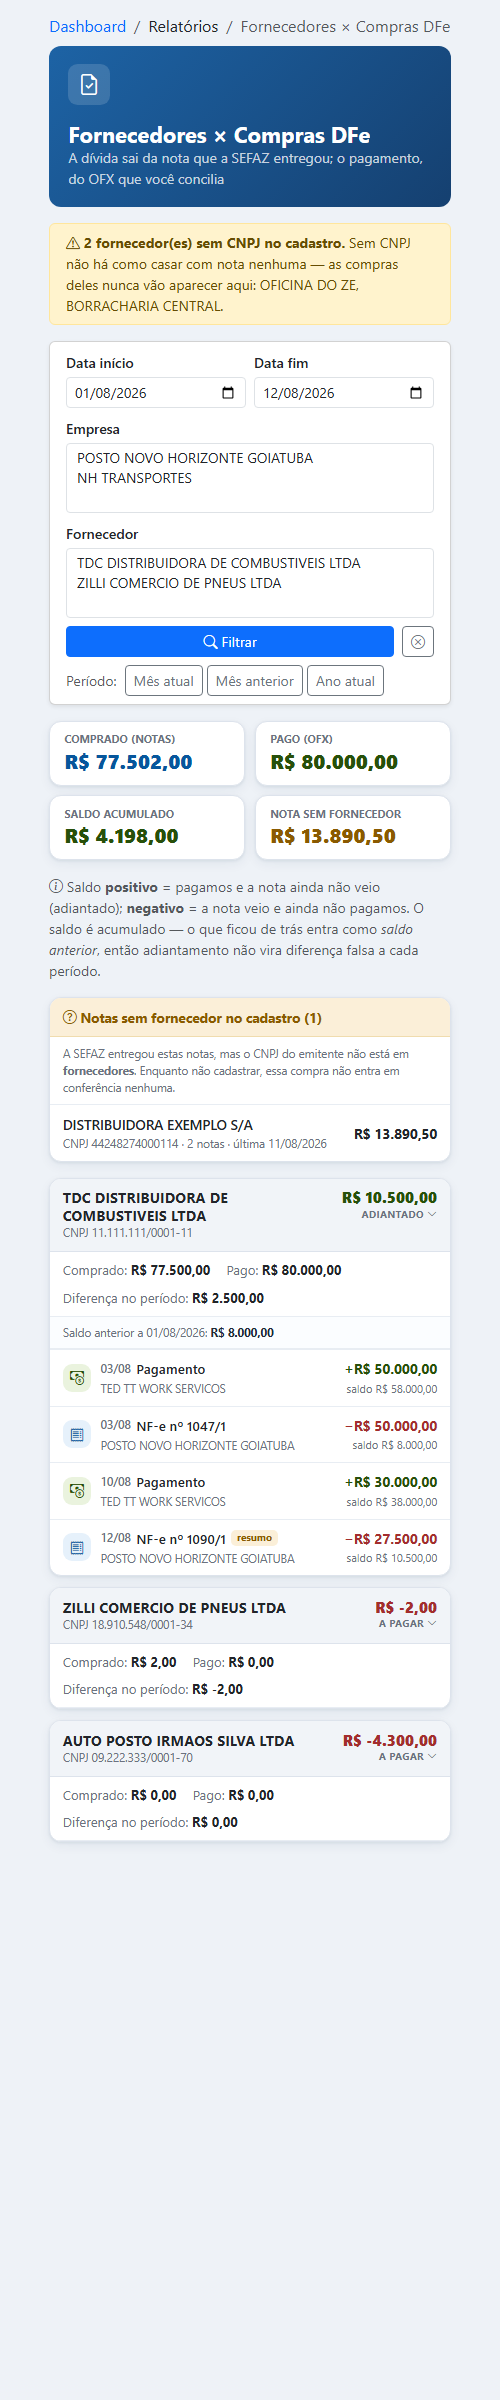
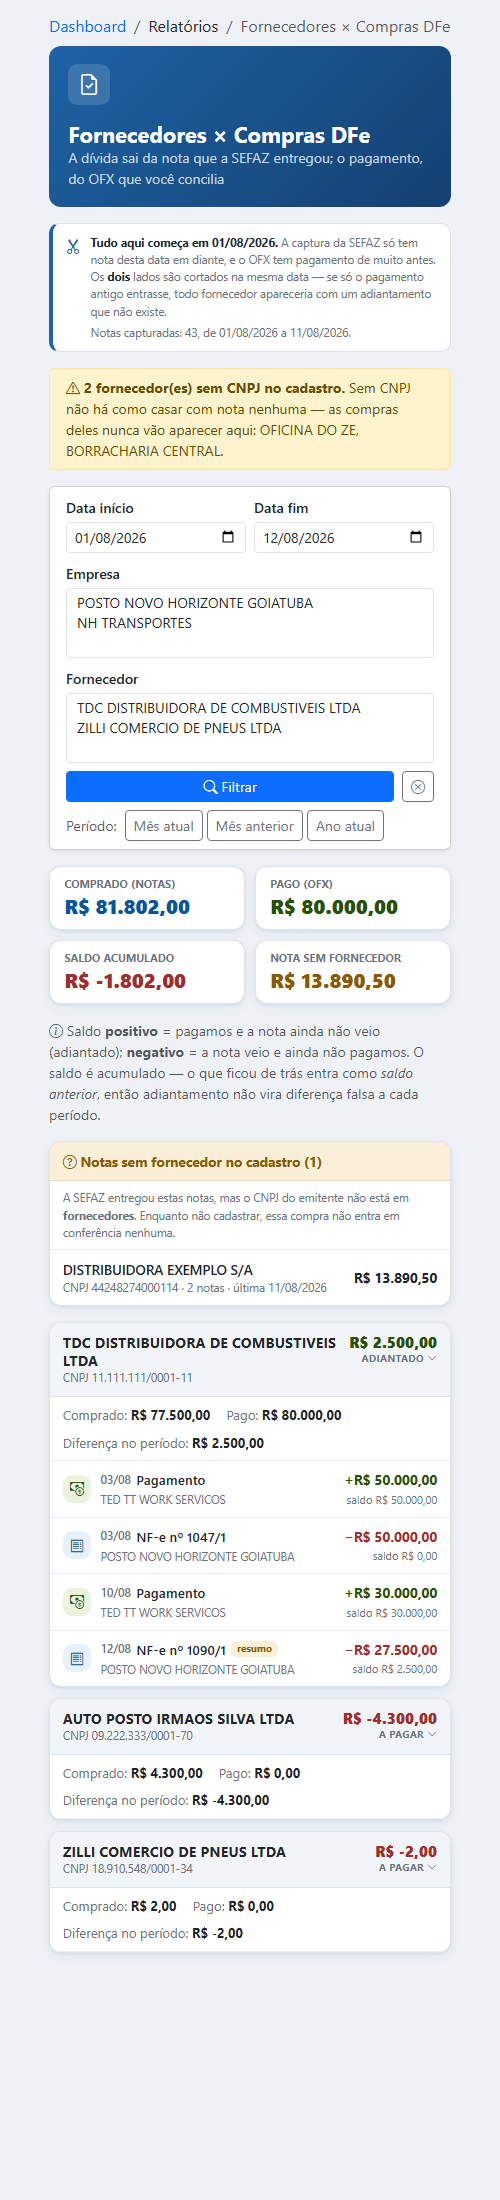
fix(conf-fornecedores-dfe): corte de data — sem ele o saldo mentia
A captura DFe so tem nota de 01/08/2026 em diante; o OFX tem pagamento
de muito antes. Como estava, o saldo anterior somava meses de pagamento
contra ZERO nota e todo fornecedor apareceria com um adiantamento
gigante e falso.

- DATA_CORTE_DFE = '2026-08-01' (mesmo corte da tela Pendente pra
  Descer). Cortado nos DOIS lados, nota e pagamento, senao a conta nao
  fecha.
- Periodo padrao e data inicial pedida nunca comecam antes do corte; se
  o usuario pedir antes, a tela avisa que puxou.
- Faixa fixa no topo explicando o corte + a janela real da captura
  (MIN/MAX das notas). Se a nota mais antiga for DEPOIS do corte, avisa
  em vermelho: nesse intervalo o pagamento entra sem nota do outro lado.

Claude-Session: https://claude.ai/code/session_014bBk89tfUn83mbQSnRCWa3

Changed region(s): [[0.09, 0.0, 0.9, 0.8964], [0.75, 0.8345, 0.87, 0.8655], [0.57, 0.8036, 0.6, 0.8345]]

diff --git a/preview-conf-fornecedores-dfe.html b/preview-conf-fornecedores-dfe.html
@@ -96,6 +96,15 @@
   #cfd .vazio{ text-align:center; color:var(--muted); padding:2.2rem 1rem; background:#fff;
     border:1px solid var(--line-2); border-radius:12px; box-shadow:var(--shadow); }
   #cfd .vazio .bi{ font-size:1.6rem; display:block; margin-bottom:.4rem; opacity:.5; }
+  /* Aviso do corte: fica sempre visível, é a premissa do número */
+  #cfd .corte{ display:flex; gap:.6rem; align-items:flex-start; background:#fff;
+    border:1px solid var(--line-2); border-left:4px solid var(--blue);
+    border-radius:10px; padding:.6rem .75rem; margin-bottom:1rem;
+    font-size:11.5px; color:var(--muted); line-height:1.5; }
+  #cfd .corte .bi{ color:var(--blue); font-size:1rem; flex:0 0 auto; margin-top:.05rem; }
+  #cfd .corte b{ color:var(--ink); }
+  #cfd .corte__j{ display:block; margin-top:.25rem; }
+  #cfd .corte__erro{ display:block; margin-top:.25rem; color:var(--danger); font-weight:600; }
   #cfd .chev{ transition:transform .2s; }
   #cfd .forn.aberto .chev{ transform:rotate(180deg); }
 </style>
@@ -115,6 +124,25 @@
     <div class="flex-grow-1" style="min-width:0">
       <h4 class="mb-0 fw-bold">Fornecedores × Compras DFe</h4>
       <p class="mb-0 opacity-75 small">A dívida sai da nota que a SEFAZ entregou; o pagamento, do OFX que você concilia</p>
+    </div>
+  </div>
+
+  
+  
+  <div class="corte">
+    <i class="bi bi-scissors"></i>
+    <div>
+      <b>Tudo aqui começa em 01/08/2026.</b>
+      A captura da SEFAZ só tem nota desta data em diante, e o OFX tem pagamento
+      de muito antes. Os <b>dois</b> lados são cortados na mesma data — se só o
+      pagamento antigo entrasse, todo fornecedor apareceria com um adiantamento
+      que não existe.
+      
+        <span class="corte__j">Notas capturadas: 43, de
+          01/08/2026 a 11/08/2026.</span>
+        
+      
+      
     </div>
   </div>
 
@@ -183,11 +211,11 @@
   
   <div class="stats">
     <div class="stat"><div class="rot">Comprado (notas)</div>
-      <div class="val blue">R$ 77.502,00</div></div>
+      <div class="val blue">R$ 81.802,00</div></div>
     <div class="stat"><div class="rot">Pago (OFX)</div>
       <div class="val green">R$ 80.000,00</div></div>
     <div class="stat"><div class="rot">Saldo acumulado</div>
-      <div class="val green">R$ 4.198,00</div></div>
+      <div class="val red">R$ -1.802,00</div></div>
     <div class="stat"><div class="rot">Nota sem fornecedor</div>
       <div class="val amber">R$ 13.890,50</div></div>
   </div>
@@ -232,7 +260,7 @@
           <div class="forn__cnpj">CNPJ 11.111.111/0001-11</div>
         </div>
         <div class="selo selo--cred">
-          <div class="v">R$ 10.500,00</div>
+          <div class="v">R$ 2.500,00</div>
           <div class="r">adiantado
             <i class="bi bi-chevron-down chev"></i></div>
         </div>
@@ -246,9 +274,6 @@
       </div>
 
       <div class="forn__corpo" style="display:none">
-        
-        <div class="ant">Saldo anterior a 01/08/2026:
-          <b>R$ 8.000,00</b></div>
         
 
         
@@ -264,7 +289,7 @@
           </div>
           <div class="lin__m">TED TT WORK SERVICOS</div>
           <div class="lin__v">+R$ 50.000,00</div>
-          <div class="lin__s">saldo R$ 58.000,00</div>
+          <div class="lin__s">saldo R$ 50.000,00</div>
         </div>
         
         <div class="lin lin--nf">
@@ -277,7 +302,7 @@
           </div>
           <div class="lin__m">POSTO NOVO HORIZONTE GOIATUBA</div>
           <div class="lin__v">−R$ 50.000,00</div>
-          <div class="lin__s">saldo R$ 8.000,00</div>
+          <div class="lin__s">saldo R$ 0,00</div>
         </div>
         
         <div class="lin lin--pg">
@@ -290,7 +315,7 @@
           </div>
           <div class="lin__m">TED TT WORK SERVICOS</div>
           <div class="lin__v">+R$ 30.000,00</div>
-          <div class="lin__s">saldo R$ 38.000,00</div>
+          <div class="lin__s">saldo R$ 30.000,00</div>
         </div>
         
         <div class="lin lin--nf">
@@ -303,7 +328,51 @@
           </div>
           <div class="lin__m">POSTO NOVO HORIZONTE GOIATUBA</div>
           <div class="lin__v">−R$ 27.500,00</div>
-          <div class="lin__s">saldo R$ 10.500,00</div>
+          <div class="lin__s">saldo R$ 2.500,00</div>
+        </div>
+        
+      </div>
+    </div>
+    
+    
+    
+    <div class="forn" id="forn-21">
+      <div class="forn__head" onclick="cfdToggle(this)">
+        <div style="min-width:0">
+          <div class="forn__nome">AUTO POSTO IRMAOS SILVA LTDA</div>
+          <div class="forn__cnpj">CNPJ 09.222.333/0001-70</div>
+        </div>
+        <div class="selo selo--deve">
+          <div class="v">R$ -4.300,00</div>
+          <div class="r">a pagar
+            <i class="bi bi-chevron-down chev"></i></div>
+        </div>
+      </div>
+
+      <div class="forn__nums">
+        <span><span class="k">Comprado:</span> <b>R$ 4.300,00</b></span>
+        <span><span class="k">Pago:</span> <b>R$ 0,00</b></span>
+        <span><span class="k">Diferença no período:</span>
+          <b>R$ -4.300,00</b></span>
+      </div>
+
+      <div class="forn__corpo" style="display:none">
+        
+
+        
+
+        
+        <div class="lin lin--nf">
+          <span class="lin__ico">
+            <i class="bi bi-receipt"></i></span>
+          <div class="lin__t">
+            <span class="data">08/08</span>
+            NF-e nº 8812/1
+            
+          </div>
+          <div class="lin__m">NH TRANSPORTES</div>
+          <div class="lin__v">−R$ 4.300,00</div>
+          <div class="lin__s">saldo R$ -4.300,00</div>
         </div>
         
       </div>
@@ -349,42 +418,6 @@
           <div class="lin__v">−R$ 2,00</div>
           <div class="lin__s">saldo R$ -2,00</div>
         </div>
-        
-      </div>
-    </div>
-    
-    
-    
-    <div class="forn" id="forn-21">
-      <div class="forn__head" onclick="cfdToggle(this)">
-        <div style="min-width:0">
-          <div class="forn__nome">AUTO POSTO IRMAOS SILVA LTDA</div>
-          <div class="forn__cnpj">CNPJ 09.222.333/0001-70</div>
-        </div>
-        <div class="selo selo--deve">
-          <div class="v">R$ -4.300,00</div>
-          <div class="r">a pagar
-            <i class="bi bi-chevron-down chev"></i></div>
-        </div>
-      </div>
-
-      <div class="forn__nums">
-        <span><span class="k">Comprado:</span> <b>R$ 0,00</b></span>
-        <span><span class="k">Pago:</span> <b>R$ 0,00</b></span>
-        <span><span class="k">Diferença no período:</span>
-          <b>R$ 0,00</b></span>
-      </div>
-
-      <div class="forn__corpo" style="display:none">
-        
-        <div class="ant">Saldo anterior a 01/08/2026:
-          <b>R$ -4.300,00</b></div>
-        
-
-        
-          <div class="ant">Sem nota e sem pagamento no período — só o saldo de trás.</div>
-        
-
         
       </div>
     </div>

diff --git a/templates/relatorios/conf_fornecedores_dfe.html b/templates/relatorios/conf_fornecedores_dfe.html
@@ -93,6 +93,15 @@
   #cfd .vazio{ text-align:center; color:var(--muted); padding:2.2rem 1rem; background:#fff;
     border:1px solid var(--line-2); border-radius:12px; box-shadow:var(--shadow); }
   #cfd .vazio .bi{ font-size:1.6rem; display:block; margin-bottom:.4rem; opacity:.5; }
+  /* Aviso do corte: fica sempre visível, é a premissa do número */
+  #cfd .corte{ display:flex; gap:.6rem; align-items:flex-start; background:#fff;
+    border:1px solid var(--line-2); border-left:4px solid var(--blue);
+    border-radius:10px; padding:.6rem .75rem; margin-bottom:1rem;
+    font-size:11.5px; color:var(--muted); line-height:1.5; }
+  #cfd .corte .bi{ color:var(--blue); font-size:1rem; flex:0 0 auto; margin-top:.05rem; }
+  #cfd .corte b{ color:var(--ink); }
+  #cfd .corte__j{ display:block; margin-top:.25rem; }
+  #cfd .corte__erro{ display:block; margin-top:.25rem; color:var(--danger); font-weight:600; }
   #cfd .chev{ transition:transform .2s; }
   #cfd .forn.aberto .chev{ transform:rotate(180deg); }
 </style>
@@ -114,6 +123,32 @@
     <div class="flex-grow-1" style="min-width:0">
       <h4 class="mb-0 fw-bold">Fornecedores × Compras DFe</h4>
       <p class="mb-0 opacity-75 small">A dívida sai da nota que a SEFAZ entregou; o pagamento, do OFX que você concilia</p>
+    </div>
+  </div>
+
+  {# ---------- Corte: sem isto o saldo mente ---------- #}
+  {% set corte_br = corte[8:10] ~ '/' ~ corte[5:7] ~ '/' ~ corte[0:4] %}
+  <div class="corte">
+    <i class="bi bi-scissors"></i>
+    <div>
+      <b>Tudo aqui começa em {{ corte_br }}.</b>
+      A captura da SEFAZ só tem nota desta data em diante, e o OFX tem pagamento
+      de muito antes. Os <b>dois</b> lados são cortados na mesma data — se só o
+      pagamento antigo entrasse, todo fornecedor apareceria com um adiantamento
+      que não existe.
+      {% if janela and janela.primeira %}
+        <span class="corte__j">Notas capturadas: {{ janela.notas }}, de
+          {{ janela.primeira.strftime('%d/%m/%Y') }} a {{ janela.ultima.strftime('%d/%m/%Y') }}.</span>
+        {% if janela.primeira.strftime('%Y-%m-%d') > corte %}
+        <span class="corte__erro">A nota mais antiga é de
+          {{ janela.primeira.strftime('%d/%m/%Y') }} — depois do corte. Pagamento entre
+          {{ corte_br }} e essa data entra sem nota do outro lado e vira dívida falsa.</span>
+        {% endif %}
+      {% endif %}
+      {% if puxou_pro_corte %}
+        <span class="corte__erro">A data inicial que você pediu é anterior ao corte;
+          usei {{ corte_br }}.</span>
+      {% endif %}
     </div>
   </div>
 

diff --git a/routes/conf_fornecedores_dfe.py b/routes/conf_fornecedores_dfe.py
@@ -57,10 +57,20 @@ _FILTRO_NOTA = """
         )
 """
 
+# ─── CORTE ────────────────────────────────────────────────────────────────────
+# A captura DFe só tem nota desta data em diante; o OFX tem pagamento de muito
+# antes. Sem corte, o saldo acumulado somaria meses de pagamento contra ZERO
+# nota e todo fornecedor apareceria com um adiantamento gigante e falso.
+# Os DOIS lados são cortados aqui — nota e pagamento — pra a conta fechar.
+# É o mesmo corte da tela "Pendente pra Descer" (estoque.DATA_CORTE_PENDENTE).
+# Ajuste aqui se a captura for reprocessada mais para trás.
+DATA_CORTE_DFE = '2026-08-01'
+
 
 def _periodo_padrao():
+    """Mês corrente — mas nunca começando antes do corte."""
     hoje = date.today()
-    return hoje.replace(day=1).isoformat(), hoje.isoformat()
+    return max(hoje.replace(day=1).isoformat(), DATA_CORTE_DFE), hoje.isoformat()
 
 
 def _ids(chave):
@@ -114,9 +124,9 @@ def _cnpjs_duplicados(conn):
 
 
 def _notas_anteriores(conn, data_ini, empresa_ids, fornecedor_ids):
-    """Soma das notas de cada fornecedor ANTES do período (saldo de trás)."""
-    where = [_FILTRO_NOTA, "d.dh_emissao < %s"]
-    params = [data_ini + " 00:00:00"]
+    """Notas entre o CORTE e o início do período (é o saldo de trás)."""
+    where = [_FILTRO_NOTA, "d.dh_emissao >= %s", "d.dh_emissao < %s"]
+    params = [DATA_CORTE_DFE + " 00:00:00", data_ini + " 00:00:00"]
     _em("d.cliente_id", empresa_ids, where, params)
     _em("f.id", fornecedor_ids, where, params)
 
@@ -135,8 +145,8 @@ def _notas_anteriores(conn, data_ini, empresa_ids, fornecedor_ids):
 
 def _pagamentos_anteriores(conn, data_ini, empresa_ids, fornecedor_ids):
     where = ["bt.tipo = 'DEBIT'", "bt.fornecedor_id IS NOT NULL",
-             "bt.data_transacao < %s"]
-    params = [data_ini]
+             "bt.data_transacao >= %s", "bt.data_transacao < %s"]
+    params = [DATA_CORTE_DFE, data_ini]
     _em("ba.cliente_id", empresa_ids, where, params)
     _em("bt.fornecedor_id", fornecedor_ids, where, params)
 
@@ -204,6 +214,22 @@ def _pagamentos_periodo(conn, data_ini, data_fim, empresa_ids, fornecedor_ids):
     rows = cur.fetchall()
     cur.close()
     return rows
+
+
+def _janela_captura(conn):
+    """Primeira e última nota que a captura DFe tem. Serve pra conferir se o
+    corte está no lugar certo — se a 1ª nota for depois do corte, o corte está
+    solto e vai deixar pagamento sem nota do outro lado."""
+    cur = conn.cursor(dictionary=True)
+    cur.execute("""
+        SELECT MIN(d.dh_emissao) AS primeira, MAX(d.dh_emissao) AS ultima,
+               COUNT(*) AS notas
+          FROM dfe_documentos d
+         WHERE d.tipo = 'NFe' AND d.situacao = 'autorizado'
+    """)
+    row = cur.fetchone() or {}
+    cur.close()
+    return row
 
 
 def _notas_sem_fornecedor(conn, data_ini, data_fim, empresa_ids):
@@ -344,11 +370,19 @@ def conf_fornecedores_dfe():
     empresa_ids = _ids('cliente_ids[]')
     fornecedor_ids = _ids('fornecedor_ids[]')
 
+    # Pedir data antes do corte não é erro do usuário — mas antes do corte só
+    # existe um dos lados (pagamento), então o começo é puxado pro corte e a
+    # tela diz que fez isso.
+    puxou_pro_corte = data_ini < DATA_CORTE_DFE
+    if puxou_pro_corte:
+        data_ini = DATA_CORTE_DFE
+
     conn = get_db_connection()
     try:
         empresas = _empresas(conn)
         fornecedores = _fornecedores(conn)
         duplicados = _cnpjs_duplicados(conn)
+        janela = _janela_captura(conn)
 
         notas_ant = _notas_anteriores(conn, data_ini, empresa_ids, fornecedor_ids)
         pagos_ant = _pagamentos_anteriores(conn, data_ini, empresa_ids, fornecedor_ids)
@@ -377,4 +411,5 @@ def conf_fornecedores_dfe():
         empresas=empresas, fornecedores=fornecedores,
         data_inicio=data_ini, data_fim=data_fim,
         cliente_ids=empresa_ids, fornecedor_ids=fornecedor_ids,
+        corte=DATA_CORTE_DFE, puxou_pro_corte=puxou_pro_corte, janela=janela,
     )

diff --git a/scripts/preview_conf_fornecedores_dfe.py b/scripts/preview_conf_fornecedores_dfe.py
@@ -32,28 +32,31 @@ def linha(tipo, dia, rotulo, detalhe, valor, saldo, resumo=False):
                 valor=valor, saldo=saldo, resumo=resumo)
 
 
+# O periodo do exemplo comeca no proprio corte, entao ninguem tem saldo
+# anterior — se tivesse, a foto estaria mostrando algo impossivel.
 DADOS = [
     dict(fornecedor_id=7, nome="TDC DISTRIBUIDORA DE COMBUSTIVEIS LTDA",
-         cnpj="11.111.111/0001-11", saldo_anterior=8000.0,
-         comprado=77500.0, pago=80000.0, saldo_final=10500.0,
+         cnpj="11.111.111/0001-11", saldo_anterior=0.0,
+         comprado=77500.0, pago=80000.0, saldo_final=2500.0,
          linhas=[
-             linha("pagamento", 3, "Pagamento", "TED TT WORK SERVICOS", 50000, 58000),
-             linha("nota", 3, "NF-e nº 1047/1", "POSTO NOVO HORIZONTE GOIATUBA", 50000, 8000),
-             linha("pagamento", 10, "Pagamento", "TED TT WORK SERVICOS", 30000, 38000),
-             linha("nota", 12, "NF-e nº 1090/1", "POSTO NOVO HORIZONTE GOIATUBA", 27500, 10500, True),
+             linha("pagamento", 3, "Pagamento", "TED TT WORK SERVICOS", 50000, 50000),
+             linha("nota", 3, "NF-e nº 1047/1", "POSTO NOVO HORIZONTE GOIATUBA", 50000, 0),
+             linha("pagamento", 10, "Pagamento", "TED TT WORK SERVICOS", 30000, 30000),
+             linha("nota", 12, "NF-e nº 1090/1", "POSTO NOVO HORIZONTE GOIATUBA", 27500, 2500, True),
          ]),
+    dict(fornecedor_id=21, nome="AUTO POSTO IRMAOS SILVA LTDA",
+         cnpj="09.222.333/0001-70", saldo_anterior=0.0,
+         comprado=4300.0, pago=0.0, saldo_final=-4300.0,
+         linhas=[linha("nota", 8, "NF-e nº 8812/1", "NH TRANSPORTES", 4300, -4300)]),
     dict(fornecedor_id=12, nome="ZILLI COMERCIO DE PNEUS LTDA",
          cnpj="18.910.548/0001-34", saldo_anterior=0.0,
          comprado=2.0, pago=0.0, saldo_final=-2.0,
          linhas=[linha("nota", 11, "NF-e nº 215772/1", "POSTO NOVO HORIZONTE GOIATUBA", 2, -2)]),
-    dict(fornecedor_id=21, nome="AUTO POSTO IRMAOS SILVA LTDA",
-         cnpj="09.222.333/0001-70", saldo_anterior=-4300.0,
-         comprado=0.0, pago=0.0, saldo_final=-4300.0, linhas=[]),
 ]
 
 CTX = dict(
     dados=DADOS,
-    totais=dict(comprado=77502.0, pago=80000.0, saldo=4198.0, orfas=13890.5),
+    totais=dict(comprado=81802.0, pago=80000.0, saldo=-1802.0, orfas=13890.5),
     orfas=[dict(emit_cnpj="44248274000114", emit_nome="DISTRIBUIDORA EXEMPLO S/A",
                 notas=2, total=13890.5, ultima=datetime(2026, 8, 11, 9, 2))],
     duplicados=[],
@@ -63,6 +66,9 @@ CTX = dict(
                   dict(id=12, razao_social="ZILLI COMERCIO DE PNEUS LTDA")],
     data_inicio="2026-08-01", data_fim="2026-08-12",
     cliente_ids=[], fornecedor_ids=[],
+    corte="2026-08-01", puxou_pro_corte=False,
+    janela=dict(primeira=datetime(2026, 8, 1, 7, 40),
+                ultima=datetime(2026, 8, 11, 15, 15), notas=43),
 )
 
 src = io.open(TPL, encoding="utf-8").read()
